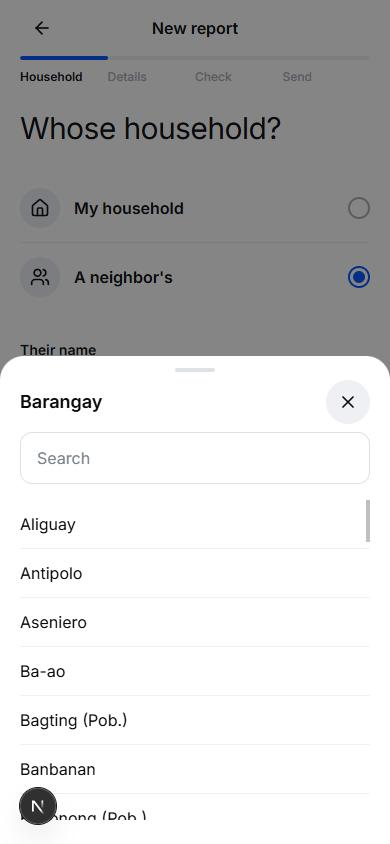
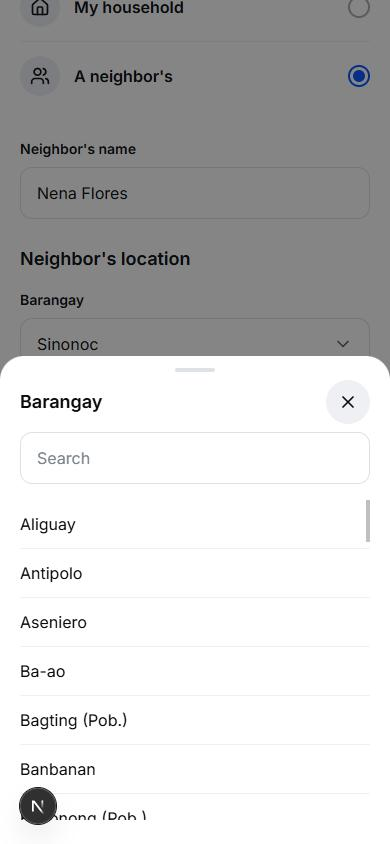
fix(family): call them neighbor's name and neighbor's location BYTE-62

diff --git a/src/components/family/whose-household.test.ts b/src/components/family/whose-household.test.ts
@@ -27,8 +27,8 @@ describe("firstMissing", () => {
     expect(firstMissing(family, [])?.field).toBe("barangay");
   });
 
-  it("asks a neighbor's report for their name, the barangay, then the reporter's name", () => {
-    expect(firstMissing({ ...neighbor, household_head: "", barangay: "", reporter_name: "" }, barangays)).toEqual({ field: "household_head", message: "Enter their name" });
+  it("asks a neighbor's report for the neighbor's name, the barangay, then the reporter's name", () => {
+    expect(firstMissing({ ...neighbor, household_head: "", barangay: "", reporter_name: "" }, barangays)).toEqual({ field: "household_head", message: "Enter the neighbor's name" });
     expect(firstMissing({ ...neighbor, barangay: "", reporter_name: "" }, barangays)?.field).toBe("barangay");
     expect(firstMissing({ ...neighbor, reporter_name: " " }, barangays)).toEqual({ field: "reporter_name", message: "Enter your name" });
   });

diff --git a/src/components/family/whose-household-form.tsx b/src/components/family/whose-household-form.tsx
@@ -128,7 +128,7 @@ function WhoseHouseholdForm({ barangays, requestedSource = null }: WhoseHousehol
   );
 
   const headField = (
-    <Field id="household-head" label={neighbor ? "Their name" : "Head of household"} error={errorFor("household_head")}>
+    <Field id="household-head" label={neighbor ? "Neighbor's name" : "Head of household"} error={errorFor("household_head")}>
       <Input
         {...fieldProps("household_head", "household-head")}
         ref={(node) => {
@@ -178,7 +178,7 @@ function WhoseHouseholdForm({ barangays, requestedSource = null }: WhoseHousehol
 
           <section aria-labelledby="location" className="flex flex-col gap-4.5">
             <h2 id="location" className="text-title-md text-ink">
-              {neighbor ? "Their location" : "Your location"}
+              {neighbor ? "Neighbor's location" : "Your location"}
             </h2>
             {barangayField}
             {purokField}

diff --git a/src/components/family/whose-household.ts b/src/components/family/whose-household.ts
@@ -15,7 +15,7 @@ export type StartError = { field: StartField; message: string };
 export function firstMissing(draft: ReportDraft, barangays: string[]): StartError | null {
   const neighbor = draft.source === "neighbor";
   if (draft.household_head.trim() === "") {
-    return { field: "household_head", message: neighbor ? "Enter their name" : "Enter the head of household" };
+    return { field: "household_head", message: neighbor ? "Enter the neighbor's name" : "Enter the head of household" };
   }
   if (!barangays.includes(draft.barangay)) return { field: "barangay", message: "Choose a barangay" };
   if (neighbor && draft.reporter_name.trim() === "") return { field: "reporter_name", message: "Enter your name" };
